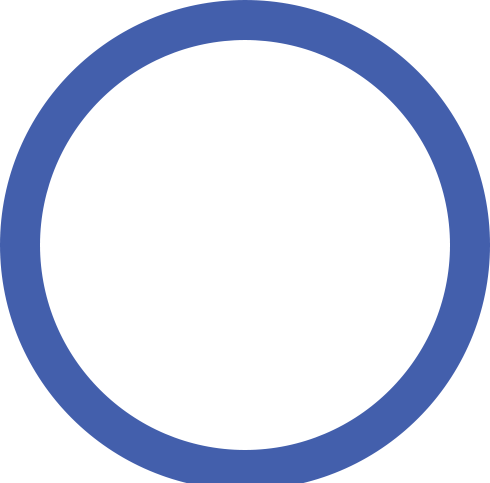
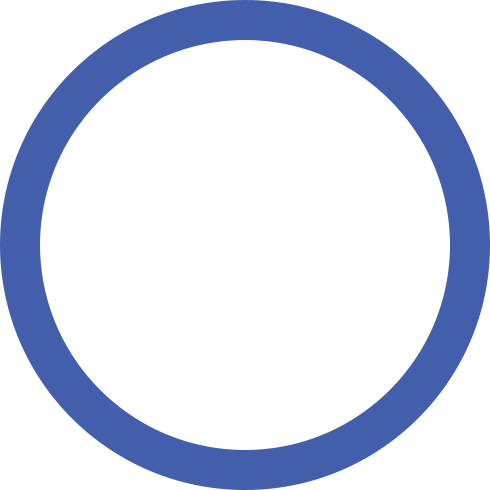
Updates to checking for Win from mainwindow size and slight changes to ring UI scaling

diff --git a/COSC2100_A2_MaxDinsmore/MainWindow.xaml.cs b/COSC2100_A2_MaxDinsmore/MainWindow.xaml.cs
@@ -12,6 +12,7 @@ using System.Windows.Media.Imaging;
 using System.Windows.Navigation;
 using System.Windows.Shapes;
 using System.Xml.Linq;
+using static COSC2100_A2_MaxDinsmore.Functions;
 
 namespace COSC2100_A2_MaxDinsmore
 {
@@ -28,6 +29,7 @@ namespace COSC2100_A2_MaxDinsmore
         public Tile[] tiles;
         //public Image[] rings;
         public int playerCount;
+        public int[] lastAccessedPiece;
         System.Windows.Controls.Label playerTurnLabel;
         
         
@@ -61,9 +63,7 @@ namespace COSC2100_A2_MaxDinsmore
             
         }
 
-
-
-
+ 
         private void buttonStartGame_Click(object sender, RoutedEventArgs e)
         {
             playerCount = 0;
@@ -90,51 +90,19 @@ namespace COSC2100_A2_MaxDinsmore
             this.Width = gridSize * 168 + 400;
             this.Height = gridSize * 168 + 40;
 
-            //rings = new Image[3*playerCount];
-            //for (int z = 0; z < playerCount; z++)
-            //{
-            //    // Image source is referenced from miscrosoft documentation
-            //    // Need to convert to get image source
-            //    // https://learn.microsoft.com/en-us/dotnet/api/system.windows.controls.image.source?view=windowsdesktop-8.0
-
-            //    for (int y=0;y<3;y++)
-            //    {
-            //        BitmapImage bitmap = new BitmapImage();
-            //        bitmap.BeginInit();
-            //        bitmap.UriSource = new Uri(players[playersTurn - 1].getRing(z), UriKind.Relative);
-            //        bitmap.EndInit();
-
-
-            //        rings[y + z * playerCount] = new Image()
-            //        {
-            //            HorizontalAlignment = 0,
-            //            VerticalAlignment = 0,
-            //            Source = bitmap,
-            //            Width = 168,
-            //            Height = 168,
-            //            Visibility = Visibility.Hidden
-
-            //        };
-            ////        grid.Children.Add(rings[y + z * playerCount]);
-            //    }
-                
-
-                
-            //}
-
             // Thickness referenced from stack overflow
             // https://stackoverflow.com/questions/1003772/setting-margin-properties-in-code
 
             tiles = new Tile[gridSize * gridSize];
-            for (int i = 0; i < gridSize; i++)
+            for (int x = 0; x < gridSize; x++)
             {
-                for (int j = 0; j < gridSize; j++)
+                for (int y = 0; y < gridSize; y++)
                 {
 
-                    tiles[j + gridSize * i] = new Tile
+                    tiles[x + y * gridSize] = new Tile
                     {
-                        Margin = new Thickness(j * 168, i * 168, 0, 0),
-                        Name = "tile" + (j + gridSize * i),
+                        Margin = new Thickness(y * 168, x * 168, 0, 0),
+                        Name = "tile" + (x + y * gridSize),
                         Visibility = Visibility.Visible,
                         Height = 168,
                         Width = 168,
@@ -143,7 +111,7 @@ namespace COSC2100_A2_MaxDinsmore
                     };
 
                     // Add the tile to the grid
-                    grid.Children.Add(tiles[j + gridSize * i]);
+                    grid.Children.Add(tiles[x + y * gridSize]);
 
                 }
             }
@@ -181,10 +149,13 @@ namespace COSC2100_A2_MaxDinsmore
             {
 
                 Thread.Sleep(100);
-                for (int gridCount = 0; gridCount < gridSize * gridSize; gridCount++)
+                for (int x = 0; x < gridSize; x++)
                 {
-                    successfulHit = checkTileInfo(tiles[gridCount]);
-                    
+                    for (int y = 0; y < gridSize; y++)
+                    {
+                        lastAccessedPiece = [x, y, -1];
+                        successfulHit = checkTileInfo(tiles[x + y * gridSize]);
+                    }
                 }
 
             }
@@ -221,8 +192,9 @@ namespace COSC2100_A2_MaxDinsmore
             for (int i = 0; i < 3; i++)
             {
                 // Negative 1 means tile was just clicked
-                if (tile.circles[i] == -1)
+                if (tile.getRingValue(i) == -1)
                 {
+                    lastAccessedPiece[2] = i;
                     // Load copy of circle
                     Dispatcher.Invoke(() =>
                     {
@@ -242,38 +214,54 @@ namespace COSC2100_A2_MaxDinsmore
                             IsHitTestVisible = false,
 
                         };
-                        int scale = 0;
+                        double scale = 0;
                         if (i == 0)
                         {
-                            scale = 78;
-                            ring.Margin = new Thickness(tile.Margin.Left+ 50, tile.Margin.Top + 50 , 0, 0);
+                            scale = 83;
+                            ring.Margin = new Thickness(tile.Margin.Left+ 43, tile.Margin.Top + 43 , 0, 0);
 
                         }
                         else if (i == 1)
                         {
-                            scale = 120;
-                            ring.Margin = new Thickness(tile.Margin.Left + 20 , tile.Margin.Top + 20, 0, 0);
+                            scale = 123;
+                            ring.Margin = new Thickness(tile.Margin.Left + 23 , tile.Margin.Top + 23, 0, 0);
 
                         }
                         else
                         {
-                            scale = 158;
-                            ring.Margin = new Thickness(tile.Margin.Left + 5, tile.Margin.Top + 5, 0, 0);
+                            scale = 157.5;
+                            ring.Margin = new Thickness(tile.Margin.Left + 5.9, tile.Margin.Top + 5.9, 0, 0);
 
                         }
                         ring.Height = scale;
                         ring.Width = scale;
                         grid.Children.Add(ring);
-                        //grid.Children.Remove(tile);
-                        //MessageBox.Show(tile.circles[i].ToString());
-                        tile.circles[i] = playersTurn;
-                        //MessageBox.Show(tile.circles[i].ToString());
+                        tile.setRingValue(i, playersTurn);
 
                     });
-                    
-
                     // tile ring is now marked as clicked by player
-                    
+
+
+                    int[][] check = checkForWin(tiles, gridSize, lastAccessedPiece);
+                    if (check[0][0].ToString() != "-1")
+                    {
+                        // Message Box For Debugging
+                        try
+                        {
+                            MessageBox.Show("Player " + playersTurn.ToString() + " Won at tiles [" 
+                                + check[0][0].ToString() + ", " + check[0][1].ToString() + ", " +  check[0][2].ToString() + "], [" +
+                                check[1][0].ToString() + ", " + check[1][1].ToString() + ", " + check[1][2].ToString() + "], [" +
+                                check[2][0].ToString() + ", " + check[2][1].ToString() + ", " + check[2][2].ToString() + "]" );
+
+                        } catch
+                        {
+                            MessageBox.Show("Error win is false");
+                        }
+                        
+                        //MessageBox.Show("player won!");
+                    }
+                    MessageBox.Show(check[0][0].ToString());
+                    //Checks if player won
                     nextTurn();
                 }
             }
